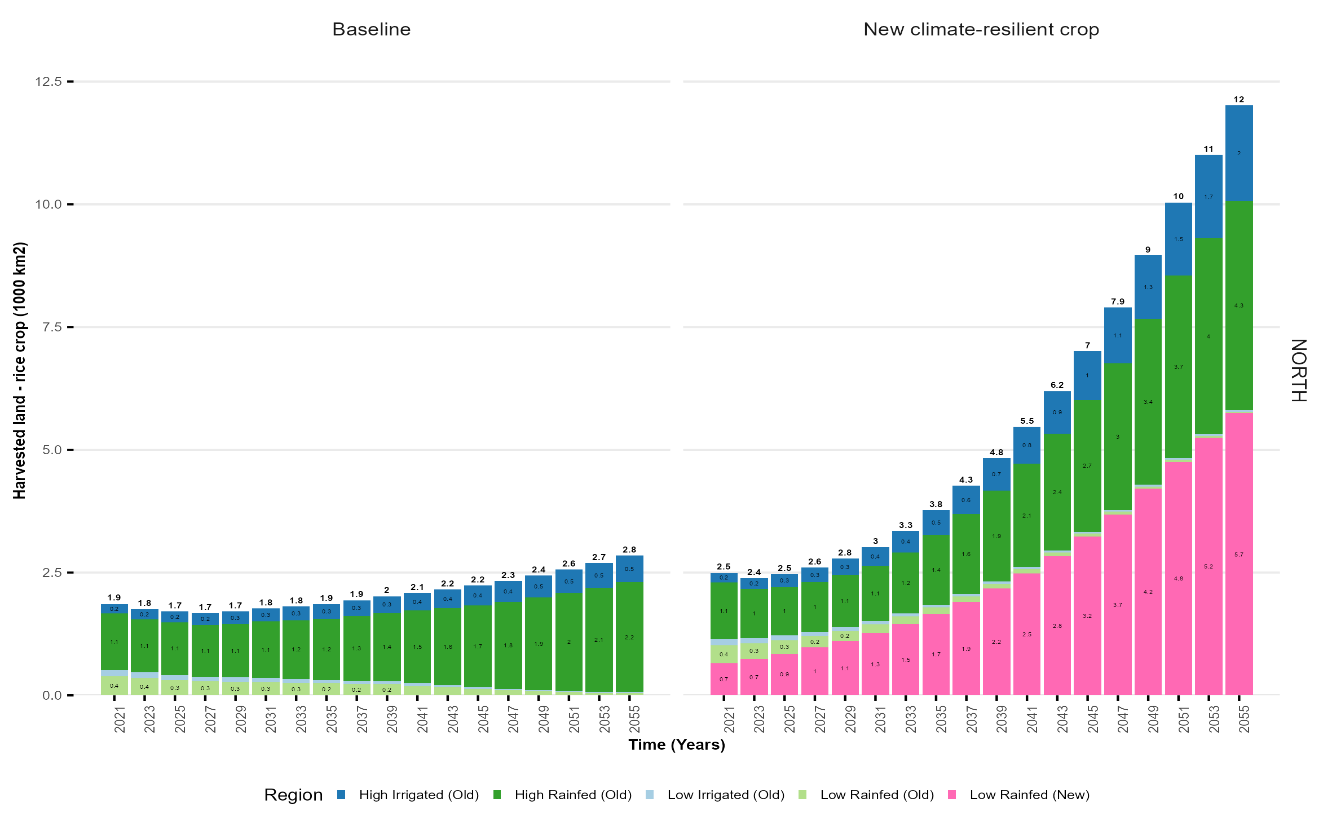
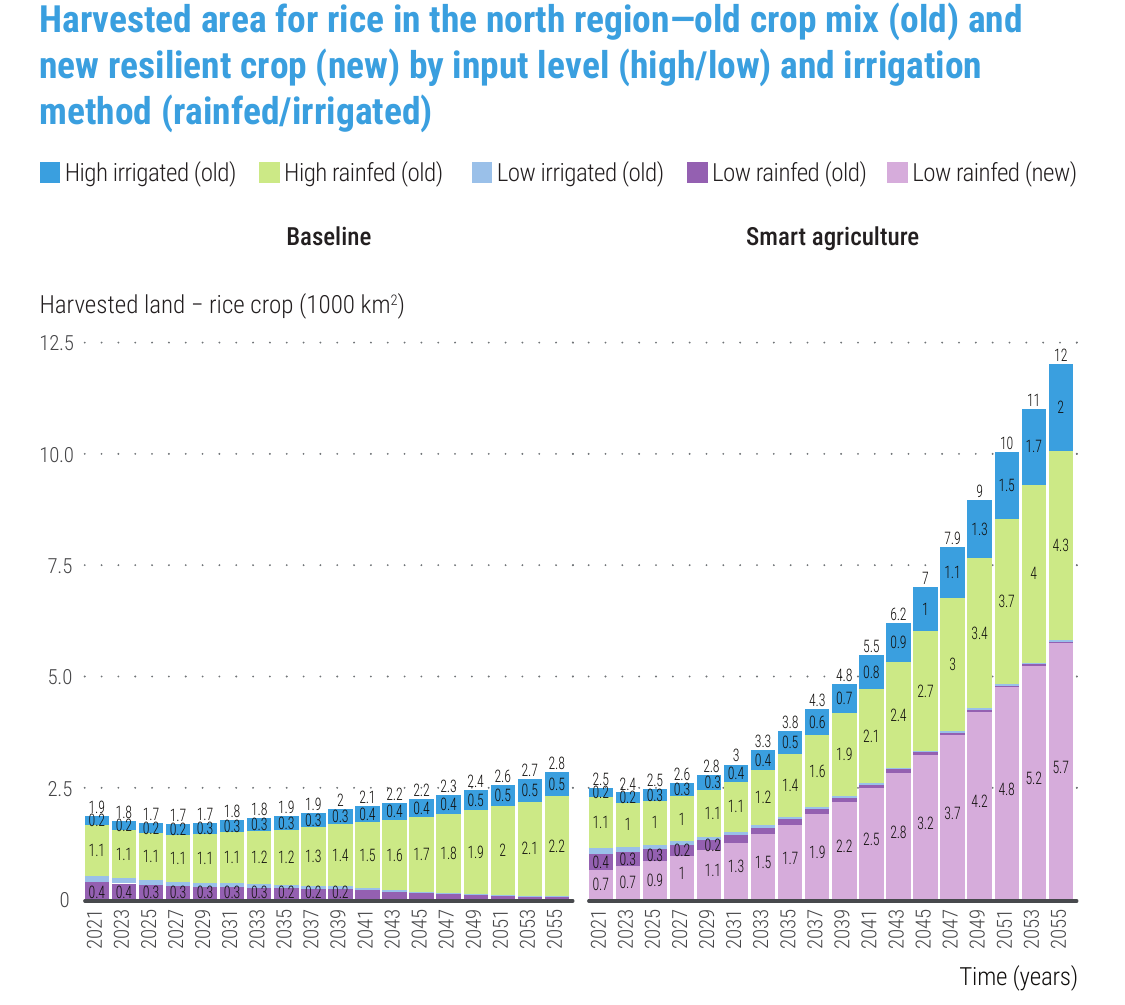
Add CLEWs brief charts to country pages

diff --git a/collections/_posts/2026-10-27-clews-zambia-policy-and-technical-briefs.md b/collections/_posts/2026-10-27-clews-zambia-policy-and-technical-briefs.md
@@ -1,6 +1,6 @@
 ---
 layout: post
-title: "New CLEWs Policy and Technical Briefs for Zambia"
+title: "New CLEWs Policy & Technical Briefs for Zambia"
 date: 2026-10-27
 authors: ["UNDESA"]
 categories: ["CLEWs", "Zambia"]
@@ -12,6 +12,11 @@ thumbnail: "/assets/images/gen/blog/clews-zambia-thumbnail.png"
 New CLEWs policy and technical briefs for Zambia present an integrated assessment developed following the national training process launched in April 2025. The **June 2026** publications examine what Zambia's ambitious maize, wheat, and soybean production targets could mean for land, irrigation, electricity supply, investment, and emissions through 2050.
 
 The analysis shows why agricultural & energy planning need to move together. Meeting the crop targets in the modelled pathway requires much more irrigation & electricity for pumping, while the expansion of cultivated land creates additional pressure on ecosystems & water resources. Distributed & utility-scale solar, together with onshore wind, emerge as cost-effective options for supporting agricultural electrification and diversifying a power system exposed to drought.
+
+<figure style="margin: 0.5rem 0;">
+  <img src="{{ '/assets/images/country-projects/zambia-renewable-capacity.png' | relative_url }}" alt="Installed electricity capacity under Zambia's three CLEWs scenarios in 2030 and 2050" style="display: block; width: 100%; margin: 0;" />
+  <figcaption style="margin-top: 0.2rem; font-size: 1em; line-height: 1.56; font-style: italic;">Installed electricity capacity under the increased-food-production, distributed-solar, and 33% non-hydro-renewable scenarios in 2030 and 2050.</figcaption>
+</figure>
 
 ### Key recommendations
 

diff --git a/pages/country-zambia.md b/pages/country-zambia.md
@@ -21,6 +21,11 @@ flag: /assets/images/flags/zambia.svg
 - **Reduce exposure to coal and climate-sensitive hydropower.** Compared with the agricultural-growth scenario, the faster renewable rollout reduces modelled coal generation by 26%, direct greenhouse-gas emissions by 24%, and variable electricity costs by 21% in 2050.
 - **Protect water resources and small farmers.** Because expanded irrigation increases reliance on groundwater, the briefs call for assessment of seasonal recharge and climate risks, careful spatial planning, and measures to ensure that small farmers benefit from the transition.
 
+<figure style="margin: 0.5rem 0;">
+  <img src="{{ '/assets/images/country-projects/zambia-renewable-capacity.png' | relative_url }}" alt="Installed electricity capacity under Zambia's three CLEWs scenarios in 2030 and 2050" style="display: block; width: 100%; margin: 0;" />
+  <figcaption style="margin-top: 0.2rem; font-size: 1em; line-height: 1.56; font-style: italic;">Installed electricity capacity under the increased-food-production, distributed-solar, and 33% non-hydro-renewable scenarios in 2030 and 2050.</figcaption>
+</figure>
+
 **Model:** CLEWs, implemented in OSeMOSYS
 
 **Stakeholders:** Zambian energy, agriculture, water, environment, and planning institutions; University of Zambia; Centre for Energy, Environment and Engineering Zambia; ZESCO; Energy Regulation Board; UN DESA; KTH Royal Institute of Technology; and Climate Compatible Growth.

diff --git a/collections/_posts/2026-10-27-clews-lao-pdr-policy-and-technical-briefs.md b/collections/_posts/2026-10-27-clews-lao-pdr-policy-and-technical-briefs.md
@@ -1,6 +1,6 @@
 ---
 layout: post
-title: "New CLEWs Policy and Technical Briefs for Lao PDR"
+title: "New CLEWs Policy & Technical Briefs for Lao PDR"
 date: 2026-10-27
 authors: ["UNDESA"]
 categories: ["CLEWs", "Lao PDR"]
@@ -12,6 +12,10 @@ thumbnail: "/assets/images/gen/blog/clews-lao2-thumbnail.png"
 New CLEWs policy and technical briefs for Lao PDR present the results of an integrated assessment developed with national stakeholders through workshops in November 2024 and May 2025. The **June 2026** publications examine how Lao PDR can pursue its forest-cover & green-growth goals while maintaining food security and preparing agriculture for a changing climate.
 
 The analysis finds that using existing farmland more productively can reduce pressure to clear additional land. In the modelled pathway, expanding sustainable mechanization and irrigation could provide an additional 420,000 tonnes of rice per year by 2055 while freeing about 8,000 km² of land for other uses, including forest restoration. This transition must be planned carefully: the scenario raises water needed for irrigation by 51% and electricity needed for irrigation by 34% by 2055.
+
+<div style="margin: 0.25rem 0;">
+  <img src="{{ '/assets/images/country-projects/lao-pdr-1.png' | relative_url }}" alt="Harvested rice area in northern Lao PDR under the baseline and smart-agriculture scenarios" style="display: block; width: 100%; margin: 0;" />
+</div>
 
 ### Key recommendations
 

diff --git a/pages/country-lao-pdr.md b/pages/country-lao-pdr.md
@@ -18,7 +18,9 @@ flag: /assets/images/flags/lao-pdr.png
 - **Expand climate-resilient rainfed rice where it performs best.** The nationally developed TDK11 rice variety performs particularly well in northern Lao PDR in the scenario, increasing low-input rainfed yields and lowering production costs and water use.
 - **Strengthen coordination and national analytical capacity.** The briefs recommend regular coordination among the institutions responsible for agriculture, water, energy, environment, and land, supported by stronger systems for data collection, modeling, and scenario analysis.
 
-![Lao PDR CLEWs project image](../../assets/images/country-projects/lao-pdr-1.png)
+<div style="margin: 0.25rem 0;">
+  <img src="{{ '/assets/images/country-projects/lao-pdr-1.png' | relative_url }}" alt="Harvested rice area in northern Lao PDR under the baseline and smart-agriculture scenarios" style="display: block; width: 100%; margin: 0;" />
+</div>
 
 **Model:** CLEWs, implemented in OSeMOSYS
 
